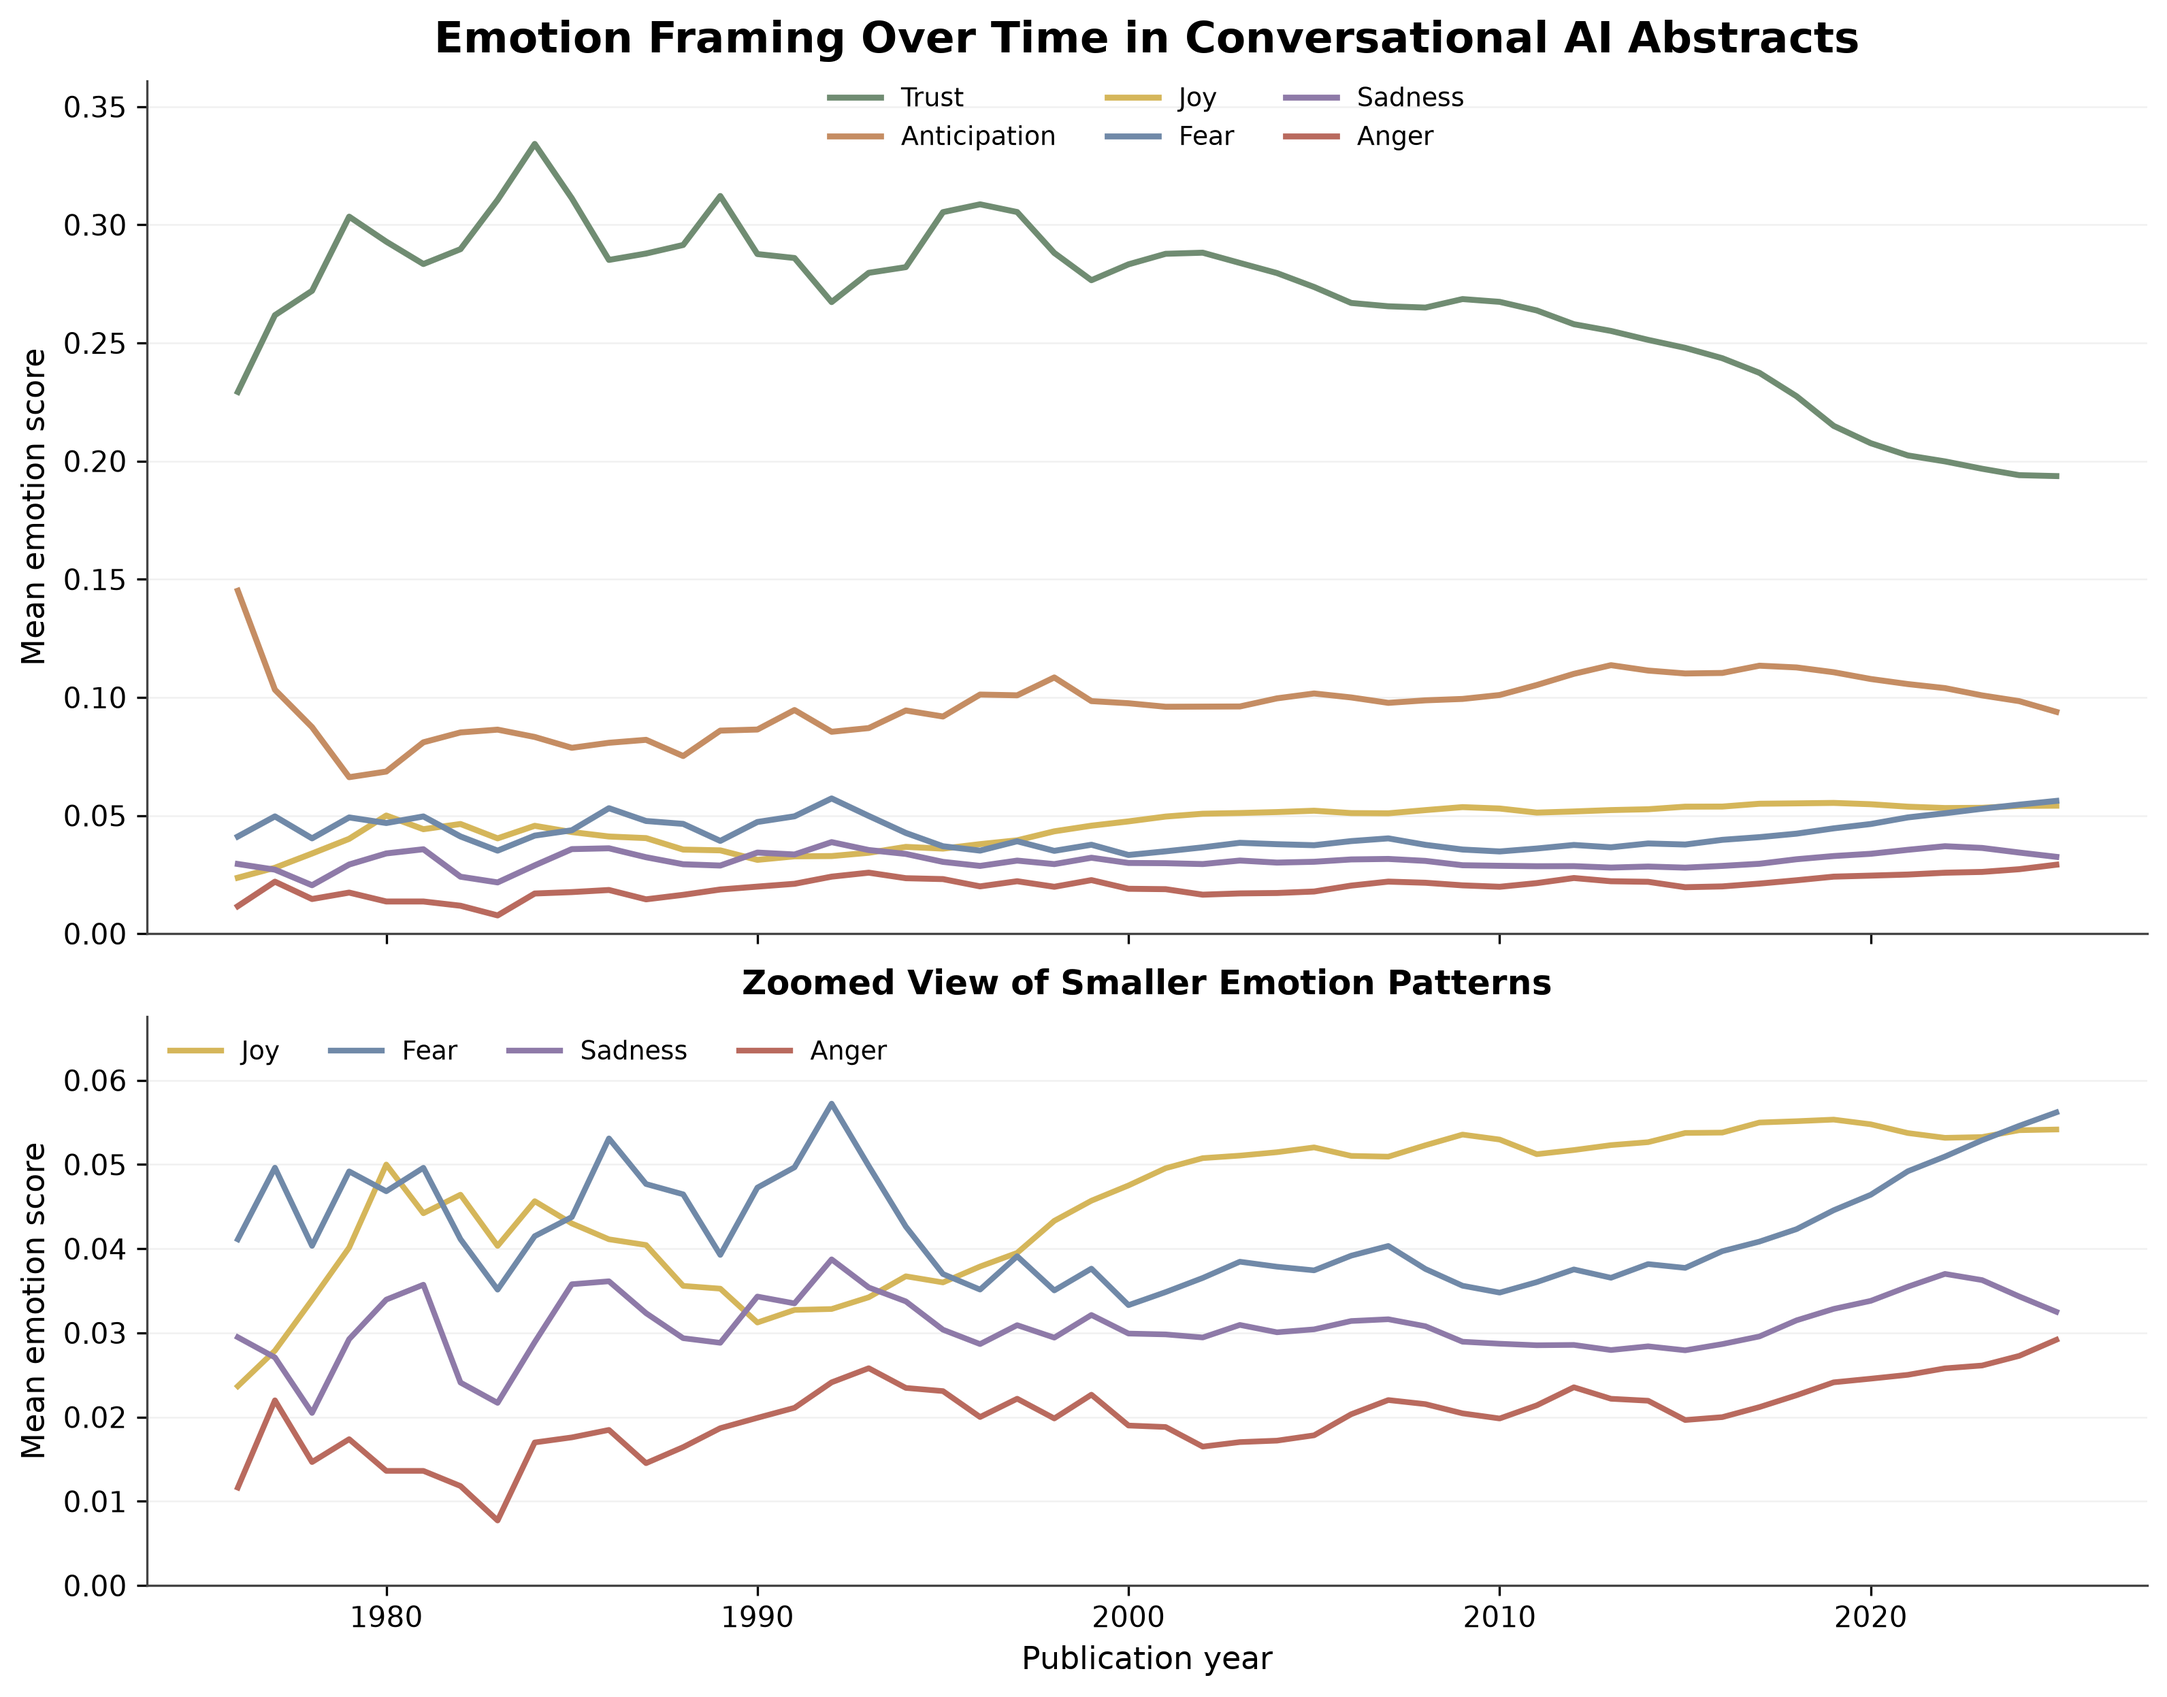
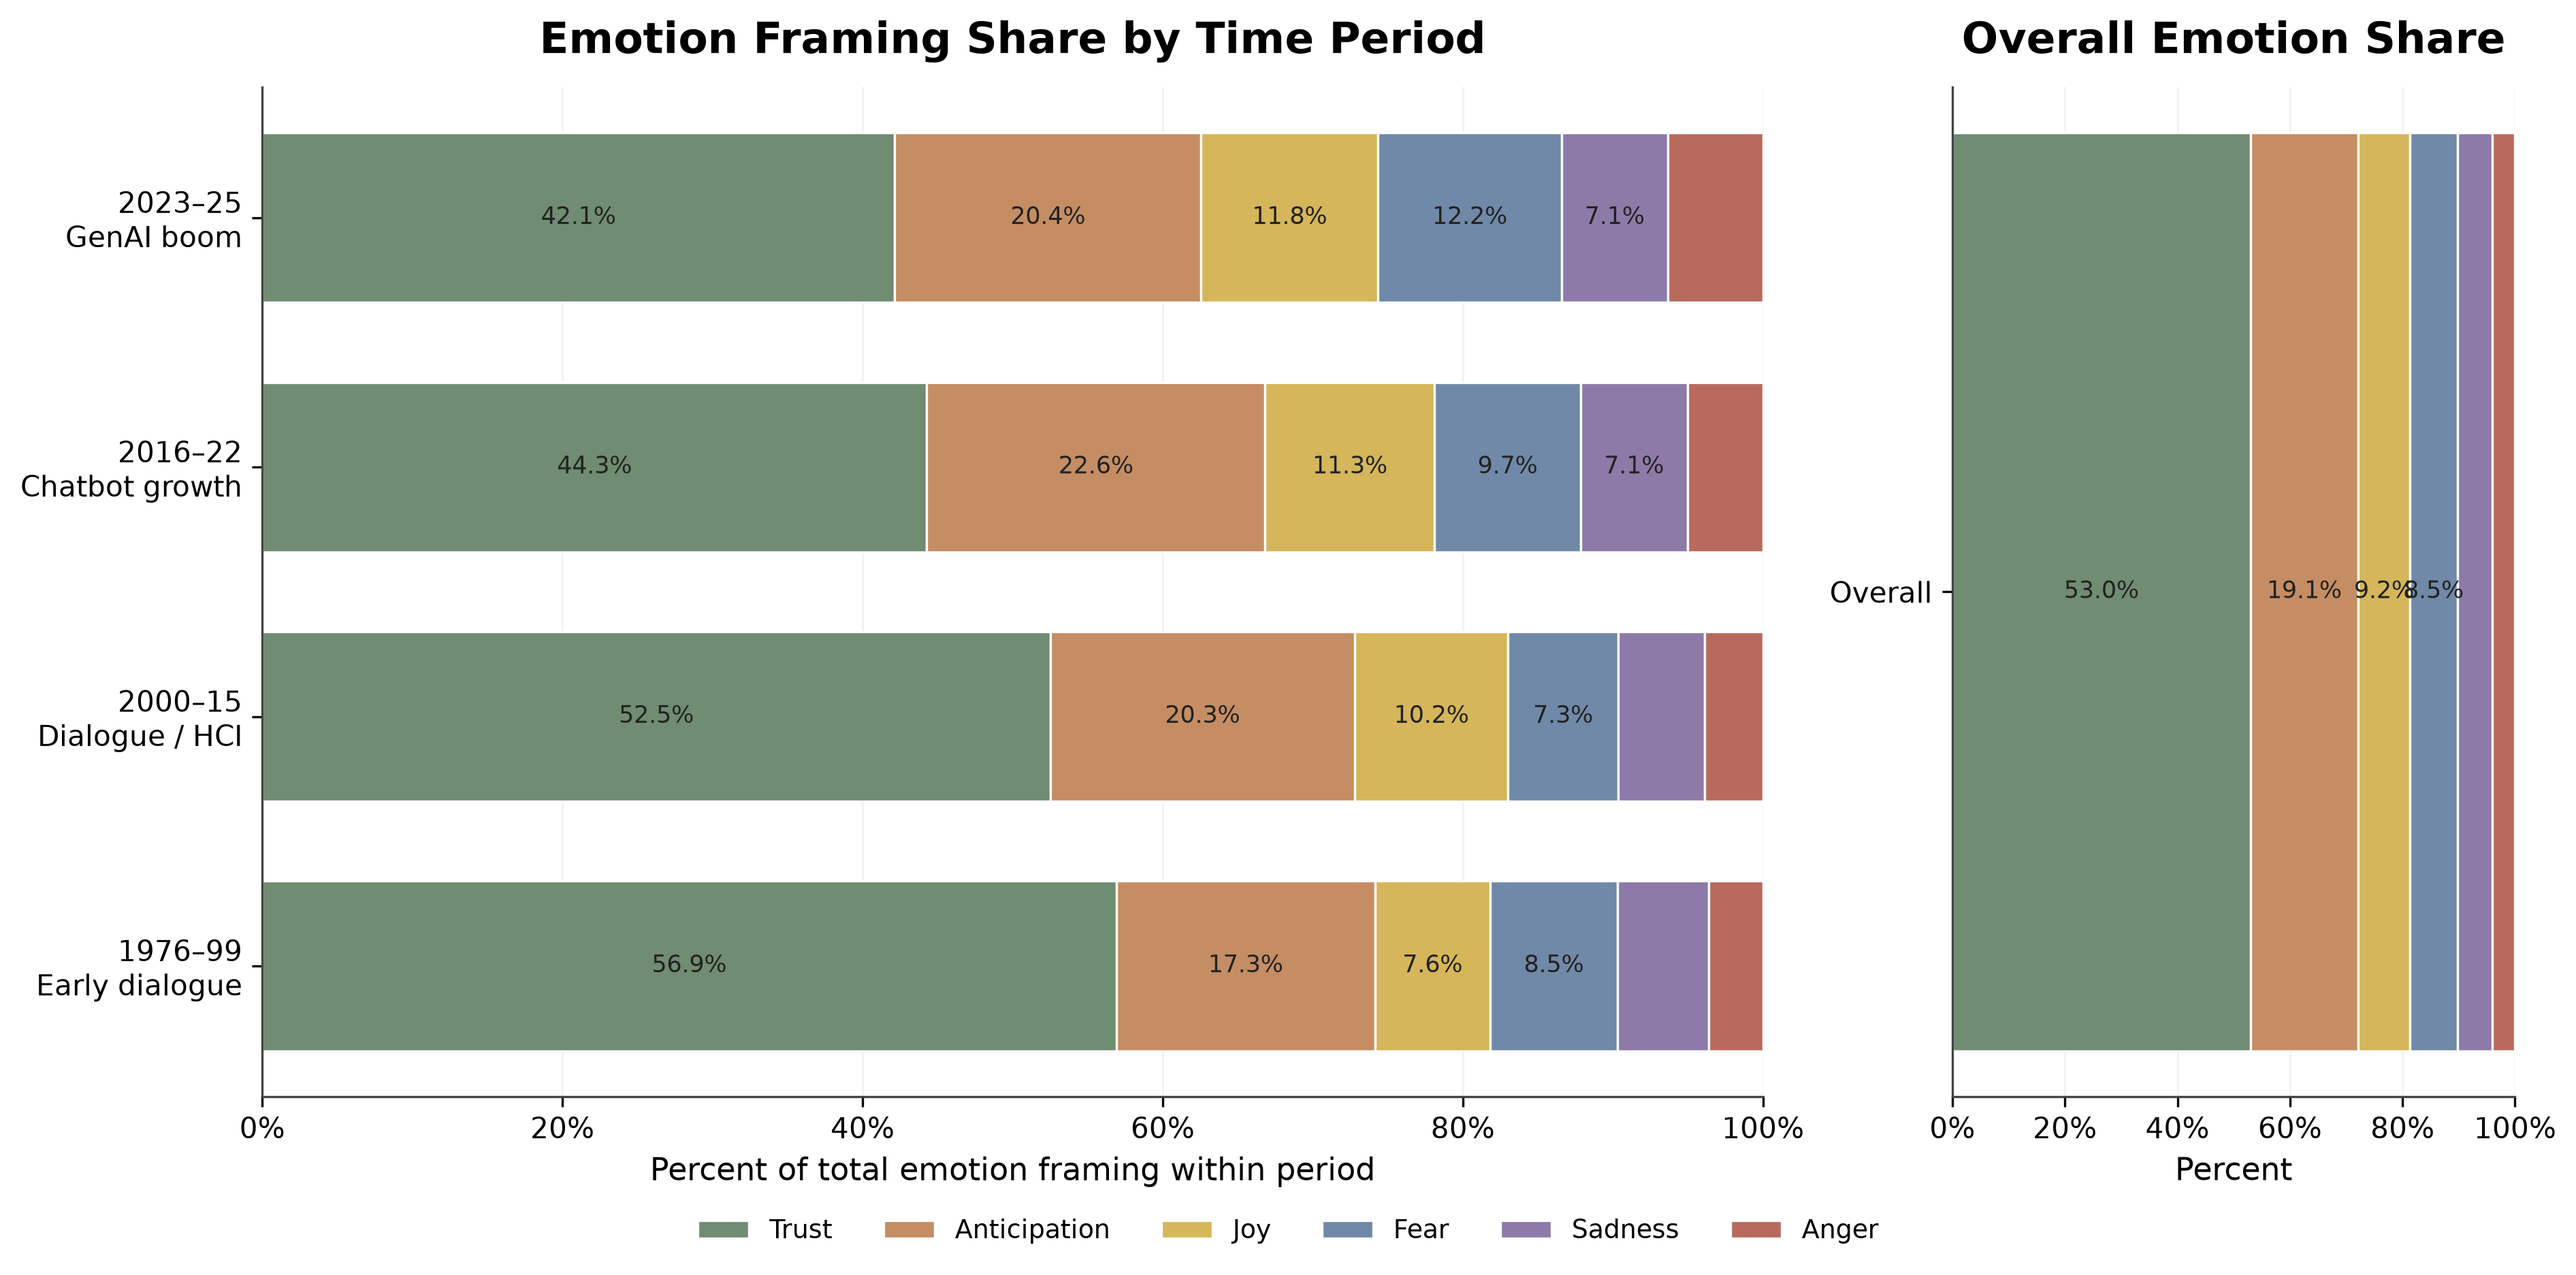
Update final sentiment framing analysis figures

diff --git a/final_openalex_pipeline/final_analysis/scripts/polish_final_figures.py b/final_openalex_pipeline/final_analysis/scripts/polish_final_figures.py
@@ -116,6 +116,11 @@ def add_bar_labels(ax, bars, threshold=7):
 keyword_counts = pd.read_csv(TABLES / "keyword_group_counts_by_period.csv")
 sentiment_labels = pd.read_csv(TABLES / "sentiment_label_by_period.csv")
 emotion_by_year = pd.read_csv(TABLES / "emotion_by_year.csv")
+emotion_pct = emotion_by_year.copy()
+for emotion in EMOTIONS:
+    emotion_pct[emotion] = emotion_pct[emotion] * 100
+
+emotion_pct.to_csv(TABLES / "emotion_by_year_percent.csv", index=False)
 sentiment_group = pd.read_csv(TABLES / "sentiment_by_keyword_group_and_period.csv")
 
 # Save small-n check table
@@ -201,7 +206,8 @@ ax.legend(frameon=False, loc="upper center", bbox_to_anchor=(0.5, -0.12), ncol=3
 save_fig(fig, "02_sentiment_label_percent_by_period.png")
 
 # --------------------------------------------------
-# Figure 3: Emotion framing over time
+# Figure 3A: Emotion score over time
+# This keeps the original line-graph idea using NRCLex scores, not percentages.
 # --------------------------------------------------
 ey = emotion_by_year.copy().sort_values("publication_year")
 
@@ -226,8 +232,8 @@ for emotion in EMOTIONS:
         label=emotion.capitalize(),
     )
 
-ax1.set_title("Emotion Framing Over Time in Conversational AI Abstracts", pad=10)
-ax1.set_ylabel("Mean emotion score")
+ax1.set_title("Emotion Scores Over Time in Conversational AI Abstracts", pad=10)
+ax1.set_ylabel("Mean NRCLex emotion score")
 ax1.set_ylim(0, ey[[f"{e}_smooth" for e in EMOTIONS]].max().max() * 1.08)
 style_axes(ax1, grid_axis="y")
 ax1.legend(frameon=False, ncol=3, loc="upper center", bbox_to_anchor=(0.5, 1.02))
@@ -241,15 +247,96 @@ for emotion in SMALL_EMOTIONS:
         label=emotion.capitalize(),
     )
 
-ax2.set_title("Zoomed View of Smaller Emotion Patterns", fontsize=12, pad=8)
+ax2.set_title("Zoomed View of Smaller Emotion Scores", fontsize=12, pad=8)
 ax2.set_xlabel("Publication year")
-ax2.set_ylabel("Mean emotion score")
+ax2.set_ylabel("Mean NRCLex emotion score")
 ax2.set_ylim(0, ey[[f"{e}_smooth" for e in SMALL_EMOTIONS]].max().max() * 1.18)
 style_axes(ax2, grid_axis="y")
 ax2.legend(frameon=False, ncol=4, loc="upper left")
 
-save_fig(fig, "03_emotion_framing_over_time.png")
+save_fig(fig, "03a_emotion_score_over_time.png")
 
+
+# --------------------------------------------------
+# Figure 3B: Emotion percentage share by time period
+# This separates the percentage idea from the raw score trend.
+# --------------------------------------------------
+def year_to_period(year):
+    if year <= 1999:
+        return "1976-1999 early dialogue / NLI"
+    elif year <= 2015:
+        return "2000-2015 dialogue systems / HCI"
+    elif year <= 2022:
+        return "2016-2022 chatbot + assistant growth"
+    else:
+        return "2023-2025 generative AI / chatbot boom"
+
+
+emotion_period = ey.copy()
+emotion_period["analysis_period"] = emotion_period["publication_year"].apply(year_to_period)
+emotion_period["analysis_period"] = pd.Categorical(
+    emotion_period["analysis_period"],
+    categories=PERIOD_ORDER,
+    ordered=True,
+)
+
+emotion_share = (
+    emotion_period
+    .groupby("analysis_period")[EMOTIONS]
+    .mean()
+    .reset_index()
+)
+
+emotion_share["total_emotion_score"] = emotion_share[EMOTIONS].sum(axis=1)
+
+for emotion in EMOTIONS:
+    emotion_share[emotion] = emotion_share[emotion] / emotion_share["total_emotion_score"] * 100
+
+emotion_share.to_csv(TABLES / "emotion_share_by_period_percent.csv", index=False)
+
+emotion_share["period_label"] = emotion_share["analysis_period"].map(PERIOD_LABELS)
+
+fig, ax = plt.subplots(figsize=(10, 5.8), constrained_layout=True)
+
+left = np.zeros(len(emotion_share))
+
+for emotion in EMOTIONS:
+    vals = emotion_share[emotion].values
+
+    bars = ax.barh(
+        emotion_share["period_label"],
+        vals,
+        left=left,
+        color=EMOTION_COLORS[emotion],
+        edgecolor="white",
+        linewidth=0.8,
+        height=0.65,
+        label=emotion.capitalize(),
+    )
+
+    for bar, val in zip(bars, vals):
+        if val >= 7:
+            ax.text(
+                bar.get_x() + bar.get_width() / 2,
+                bar.get_y() + bar.get_height() / 2,
+                f"{val:.1f}%",
+                ha="center",
+                va="center",
+                fontsize=8.5,
+                color="#222222",
+            )
+
+    left += vals
+
+ax.set_title("Emotion Share by Time Period", pad=12)
+ax.set_xlabel("Percent of total emotion framing within period")
+ax.set_ylabel("")
+ax.set_xlim(0, 100)
+ax.xaxis.set_major_formatter(PercentFormatter(xmax=100))
+style_axes(ax, grid_axis="x")
+ax.legend(frameon=False, loc="upper center", bbox_to_anchor=(0.5, -0.12), ncol=6)
+
+save_fig(fig, "03b_emotion_share_by_period.png")
 # --------------------------------------------------
 # Figure 4: Mean sentiment by keyword group and period
 # --------------------------------------------------
